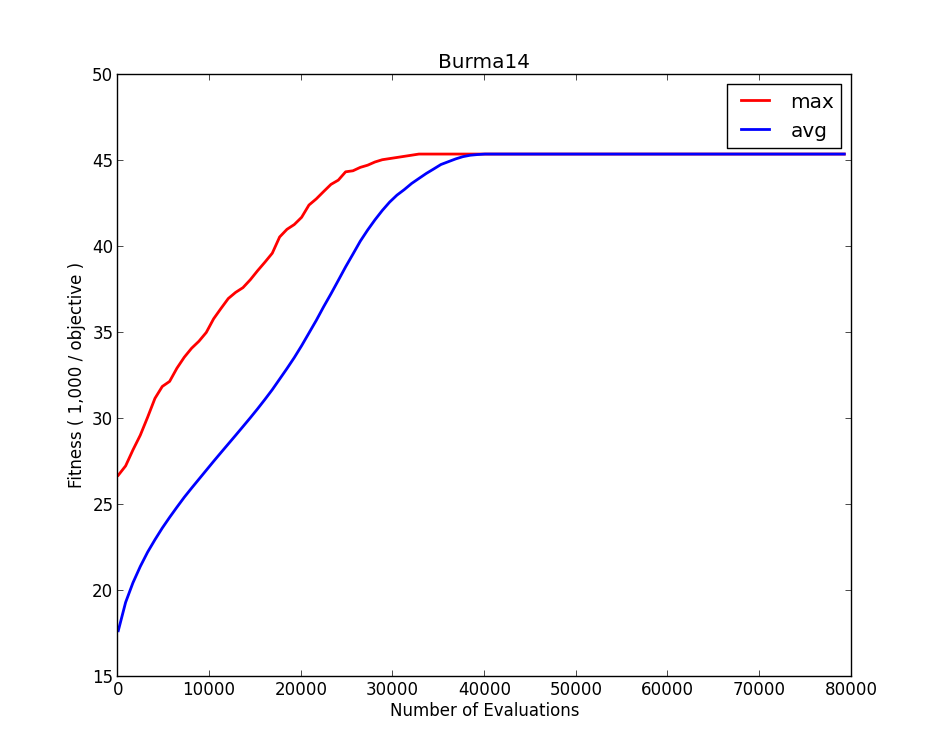
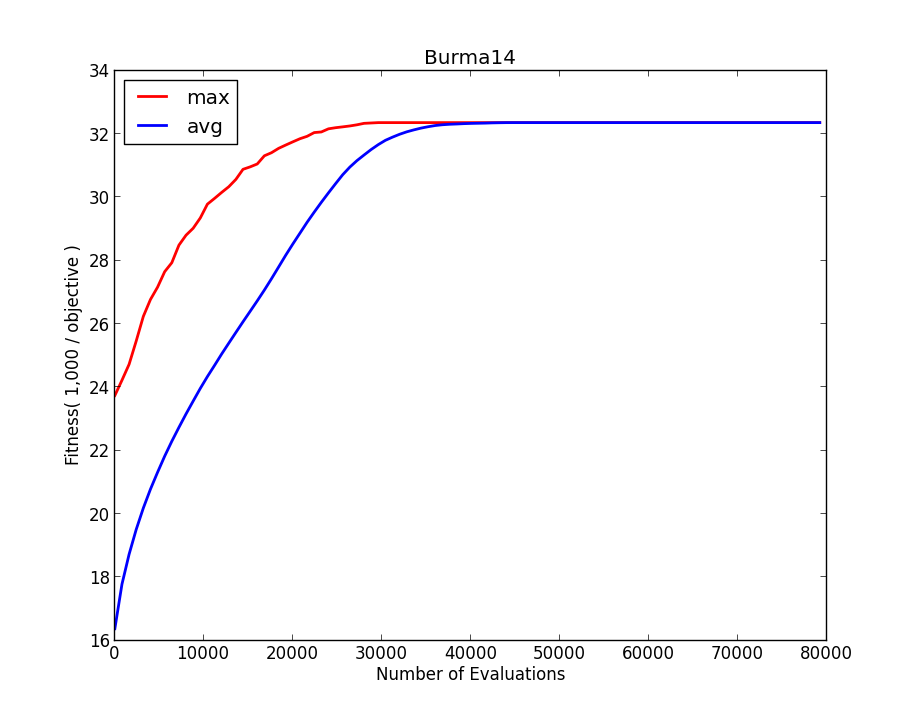
finishing

diff --git a/assignment4/src/evaluate.cpp b/assignment4/src/evaluate.cpp
@@ -11,11 +11,11 @@
 
 using namespace std;
 
-int getTotalRouteDistance(const int *chrom, int chromosomeLength) {
-    int totalDistance = 0;
-    for (int i = 0; i < chromosomeLength - 1; i++) {
+float getTotalRouteDistance(const int *chrom, int chromosomeLength) {
+    float totalDistance = 0;
+    for (int i = 0; i < chromosomeLength; i++) {
         if (i == chromosomeLength - 1) {
-            TSPManager::getInstance()->getEuclideanDistance(chrom[i], chrom[0]);
+            totalDistance += TSPManager::getInstance()->getEuclideanDistance(chrom[i], chrom[0]);
         } else {
             totalDistance += TSPManager::getInstance()->getEuclideanDistance(chrom[i], chrom[i + 1]);
         }
@@ -25,7 +25,7 @@ int getTotalRouteDistance(const int *chrom, int chromosomeLength) {
 }
 
 void tspEval(ga::Individual *ent) {
-    int objectiveValue = getTotalRouteDistance(ent->chrom, ent->length);
+    float objectiveValue = (getTotalRouteDistance(ent->chrom, ent->length));
 
     ent->fit = 1.0f / objectiveValue;
 }

diff --git a/assignment4/src/TSPManager.cpp b/assignment4/src/TSPManager.cpp
@@ -56,13 +56,13 @@ void TSPManager::preCalculateDistances() {
             //calculate distance
             float xD = source.second.first - destination.second.first;
             float yD = source.second.second - destination.second.second;
-            auto distance = (int)(std::sqrt(xD * xD + yD * yD) + 0.5);
+            auto distance = (std::sqrt(xD * xD + yD * yD));
             distances[source.first][destination.first] = distance;
         }
     }
 }
 
-int TSPManager::getEuclideanDistance(int source, int destination) {
+float TSPManager::getEuclideanDistance(int source, int destination) {
     if (distances.find(source) != distances.end()) {
         if (distances[source].find(destination) != distances[source].end()) {
             return distances[source][destination];

diff --git a/assignment4/src/ga.cpp b/assignment4/src/ga.cpp
@@ -108,15 +108,15 @@ void GA::setupOptions(int argc, char *argv[]) {
 
     //NOTE~ CONFIGURE THESE PARAMETERS***********
     //population size
-    options.popSize = 4600;
+    options.popSize = 800;
     //maximum number of generations
-    options.maxgens = 2000;//static_cast<unsigned int>(1.5 * options.popSize);
+    options.maxgens = 100;//static_cast<unsigned int>(1.5 * options.popSize);
 
     //lambda*popSize has to be an even number
     options.lambda = 1;
 
     options.px = 0.99f; //probability of crossover
-    options.pm = 0.5f; //probability of mutation
+    options.pm = 0.1f; //probability of mutation
     //Note~ CONFIGURE END**************************
 
     options.scaler = 1.05;
